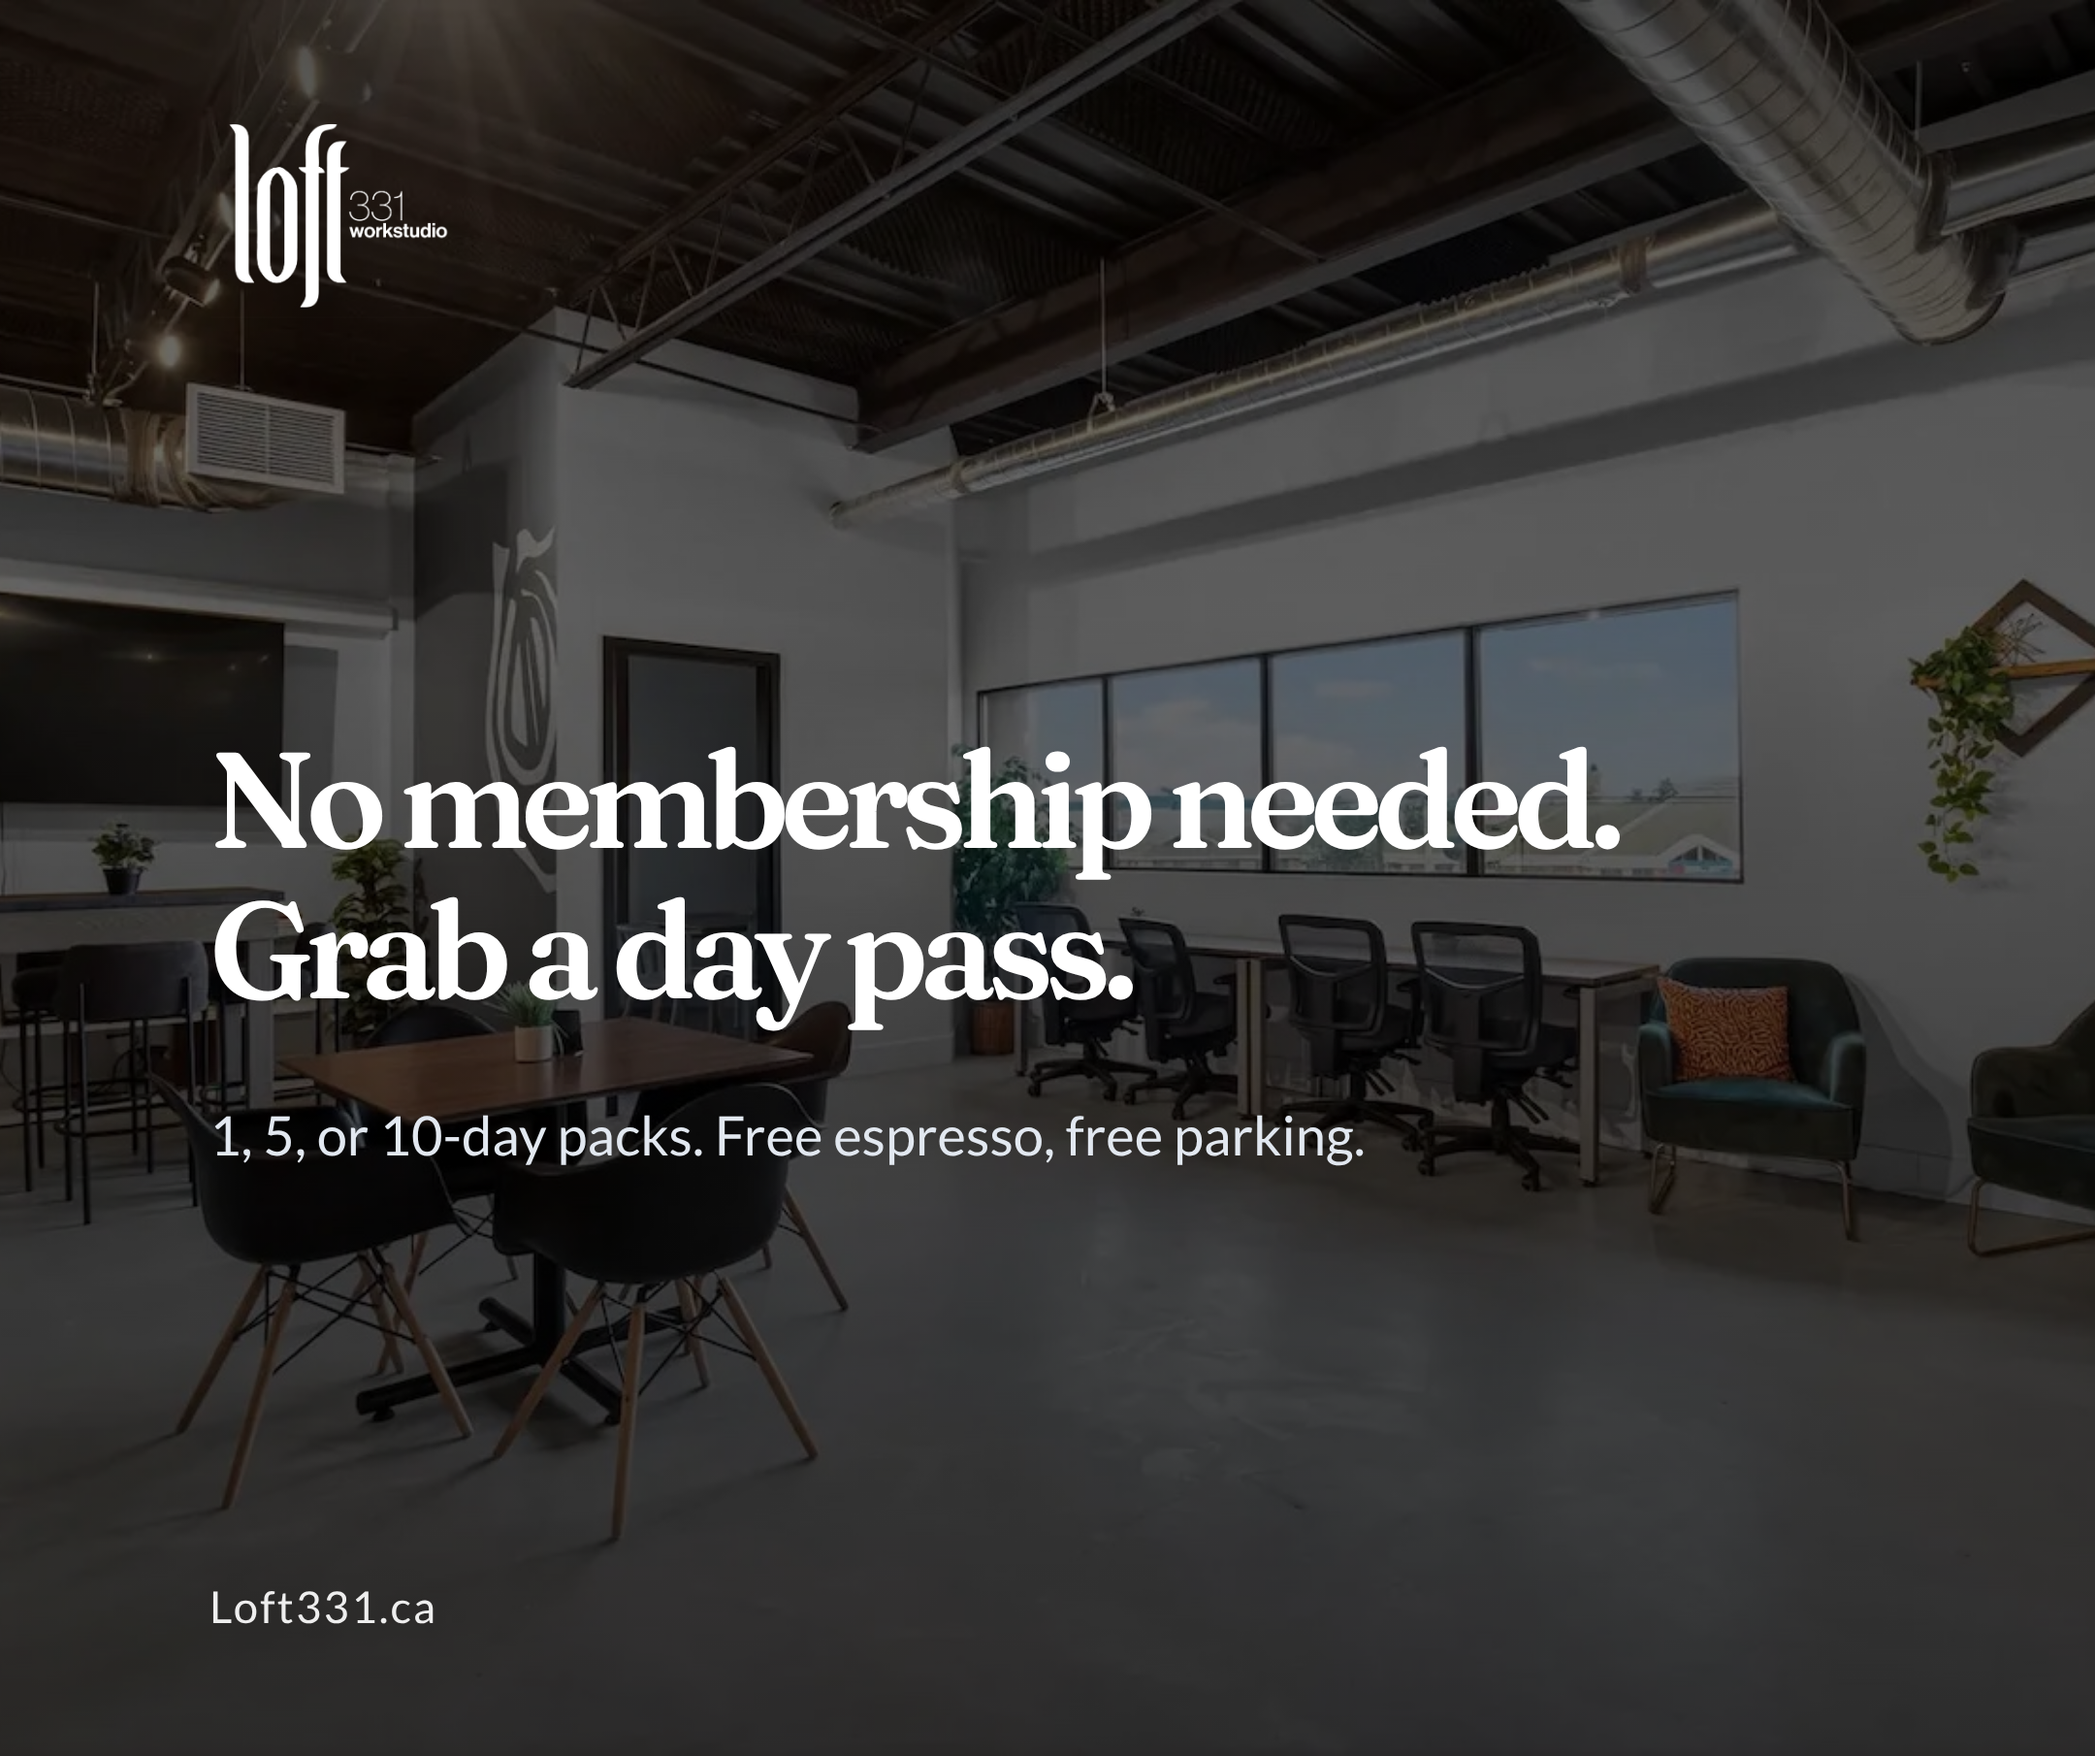
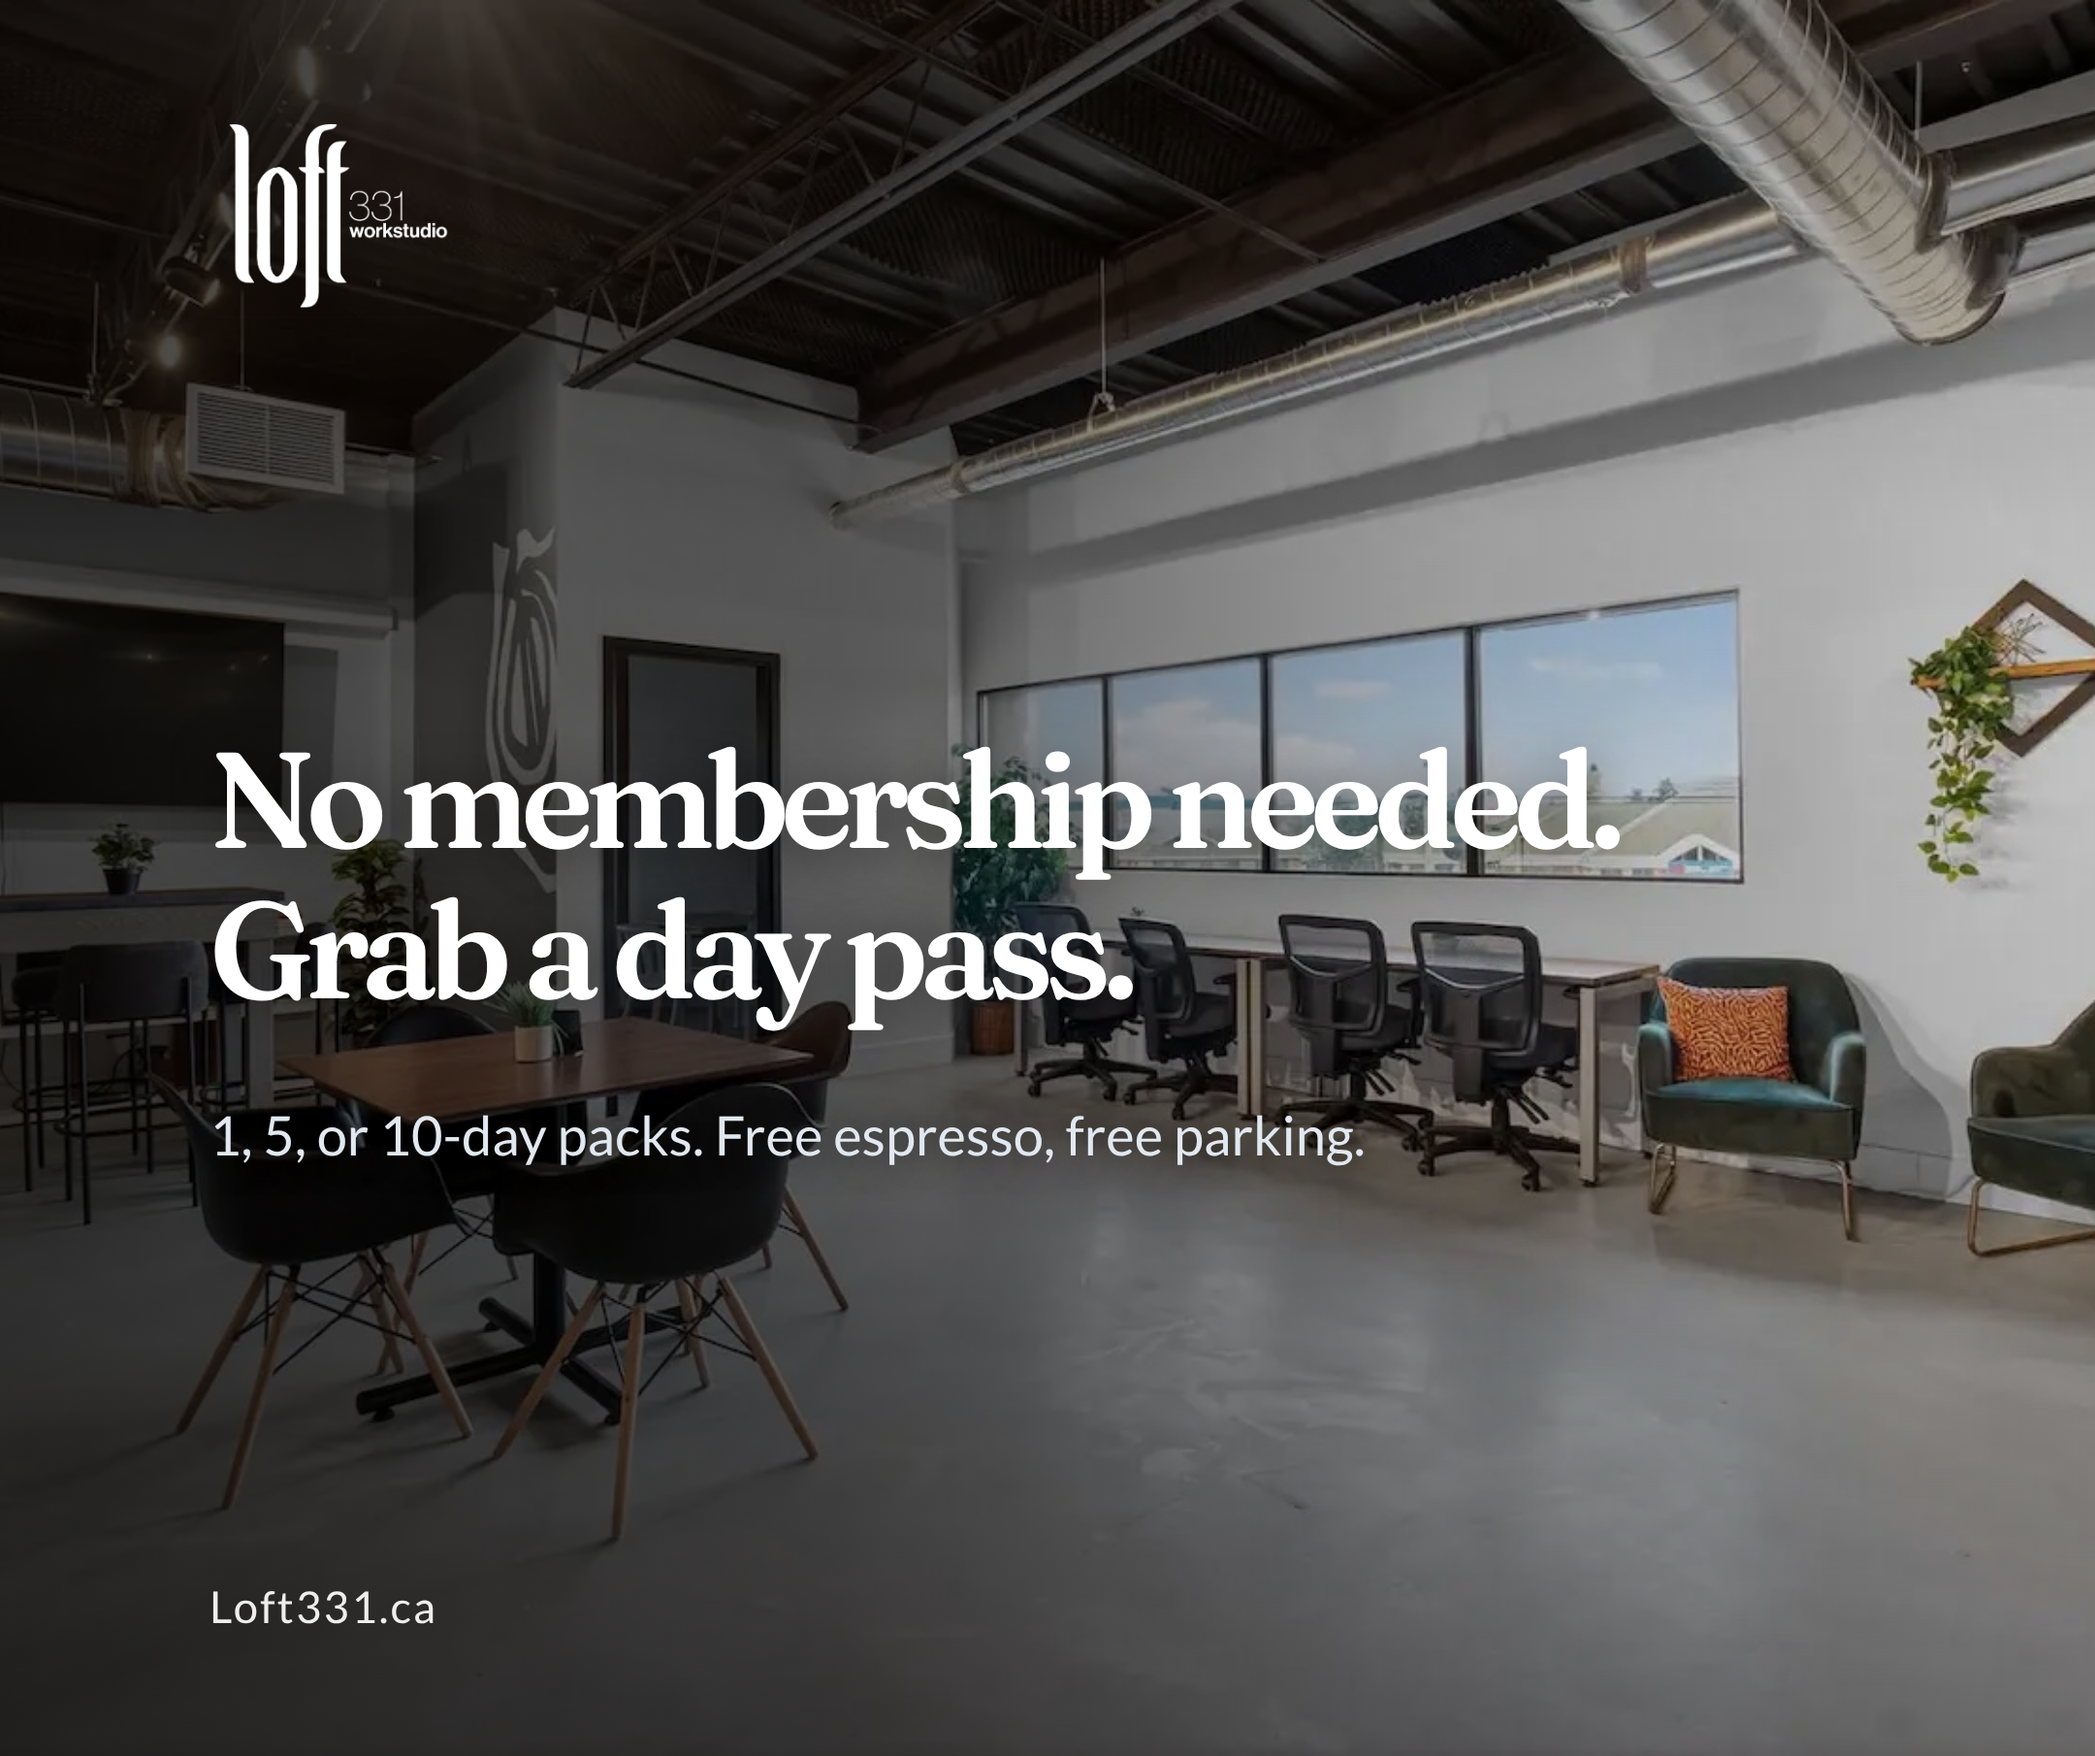
Redo 2026-10-29-week in vivid style; record design default
Claude-Session: https://claude.ai/code/session_018FS3dSG8LGvce1L6SkbsmJ

diff --git a/tools/social/template-spotlight-vivid.html b/tools/social/template-spotlight-vivid.html
@@ -12,8 +12,8 @@
     rgba(0,0,0,0.0);}
   .logo{position:absolute;top:7vh;left:10vw;height:9.3vw;display:block;}
   .content{position:absolute;left:0;right:0;top:calc(7vh + 9.3vw);bottom:calc(7vh + 2.6vw);display:flex;flex-direction:column;justify-content:center;padding:0 10vw;}
-  .headline{font-size:6.5vw;line-height:1.1;color:var(--color-white);max-width:80vw;}
-  .subline{font-family:var(--font-sans);font-size:2.6vw;line-height:var(--leading-snug);color:var(--color-gray-200);margin-top:3.5vw;max-width:80vw;}
+  .headline{font-size:6.5vw;line-height:1.1;color:var(--color-white);max-width:80vw;;text-shadow:0 0.3vw 2.5vw rgba(0,0,0,0.45);}
+  .subline{font-family:var(--font-sans);font-size:2.6vw;line-height:var(--leading-snug);color:var(--color-gray-200);margin-top:3.5vw;max-width:80vw;;text-shadow:0 0.2vw 1.6vw rgba(0,0,0,0.5);}
   .site{position:absolute;left:10vw;bottom:7vh;line-height:1.2;font-family:var(--font-sans);font-size:2.1vw;color:var(--color-white);opacity:0.92;letter-spacing:var(--tracking-wide);}
 </style>
 </head>

diff --git a/.claude/skills/loft331-social/SKILL.md b/.claude/skills/loft331-social/SKILL.md
@@ -57,6 +57,13 @@ Cards crop landscape photos to their middle. If a render is mostly dark or empty
 - Before building any cycle, list the Canadian / New Brunswick holidays inside it and the week after it, and theme the posts starting one to two weeks before each one, not just on the day (Remembrance Day Nov 11, Christmas Eve, Christmas Day, Boxing Day, New Year's, Family Day, Good Friday, Victoria Day, Canada Day, NB Day, Labour Day, Thanksgiving). A statutory holiday morning gets a holiday post, never a sell.
 - Exception: **no Halloween content** (2026). Flag any Loft & Found date that lands on a holiday (2026-11-11 is Remembrance Day) before building its track.
 
+## Design default (Dave 2026-10-28)
+- Default template is `template-spotlight-vivid.html`: full-colour photo, light left-to-right fade behind the text. This is the look Dave approved on the podcast posts.
+- Do NOT use the slate wash or the all-over dark/black gradient for feed posts. Green wash only for an occasional brand post.
+- Pick vibrant photos: Unsplash (licence logged in tools/photos/stock/CREDITS.csv) for anything that isn't the space itself, real Loft photos for the space. Crop so the subject sits right of the text, never under it.
+- Never put a price in an image. Prices go in the caption only.
+- Headlines are plain, complete sentences a person would say. No clever lines that need explaining.
+
 ## Reading web pages from the cloud session (2026-10-14)
 - Plain fetches are blocked by the environment's network policy unless the host is under Allowed domains (Edit environment → Network access). Dave allowed the research and stock hosts on 2026-10-14 (wework.com, unsplash.com, openverse, wikimedia, rd.com, huffpost.com, buzzfeed.com, boredpanda.com, legion.ca). A new host → ask Dave to add it, then retry.
 - Sites behind a Cloudflare "Just a moment" check (wework.com) refuse curl and WebFetch. Use `python3 tools/social/fetch_page.py "<url>"` (headless Chromium, same binary as render.py); it prints headings, teasers and link text in order.
